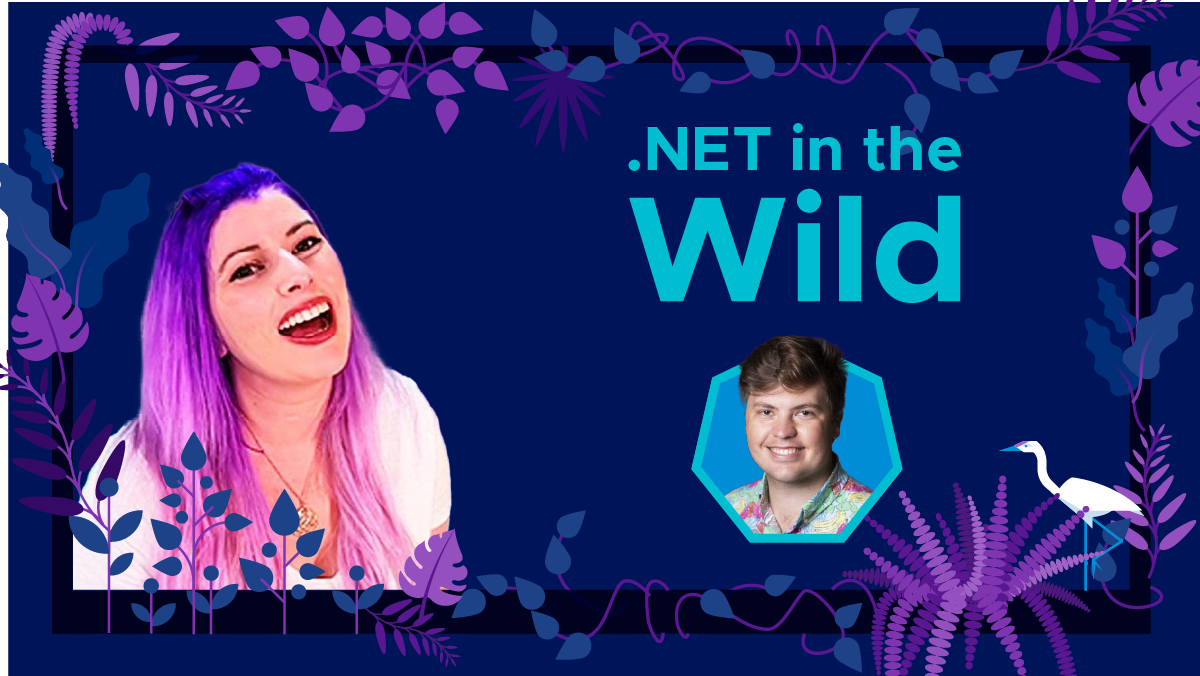
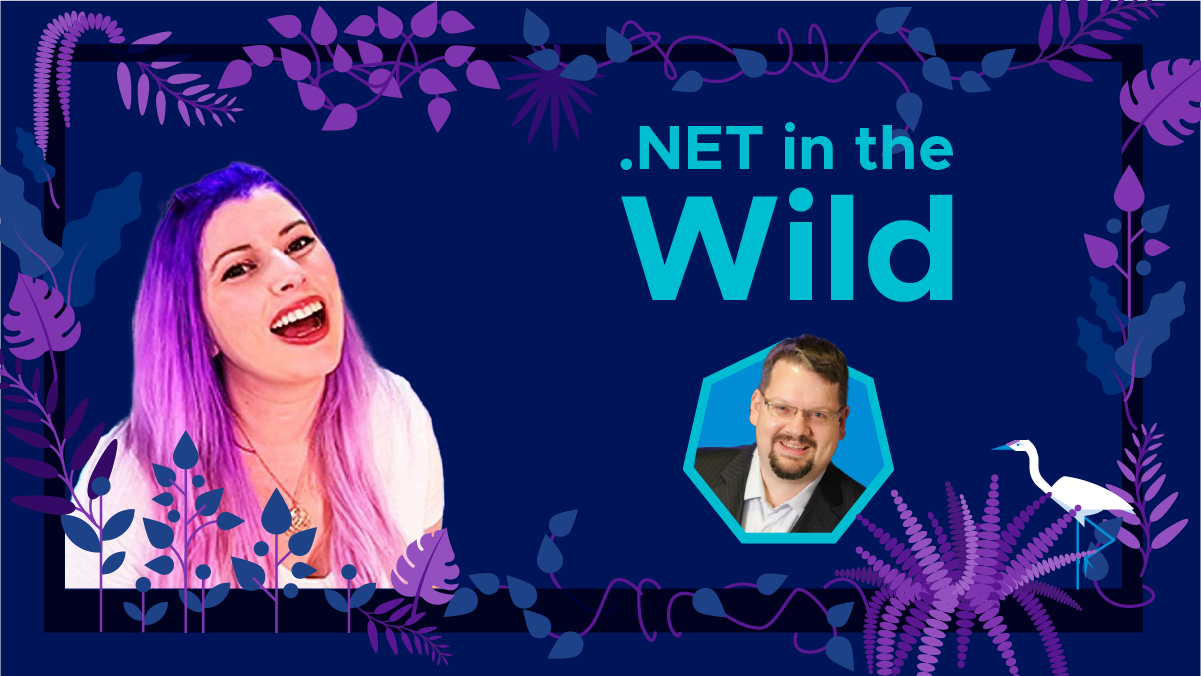
New .NET in the wild shows (#1730)
* converting links to hyperlinks for .net beyond

* fixed typo

* updating and adding .net in the wild guests

* added in Elahn's YT link

* spell check!

Changed region(s): [[0.0, 0.0, 1.0, 1.0], [0.4933, 0.2796, 0.8017, 0.466]]

diff --git a/content/tv/dotnet-wild/0011/index.md b/content/tv/dotnet-wild/0011/index.md
@@ -1,25 +1,23 @@
 ---
-Date: '2022-05-17T17:30:00-00:00'
-Description: .NET in the Wild with Alex Dunn
-PublishDate: '2022-03-07T00:00:00-00:00'
+Date: '2022-04-12T17:30:00-00:00'
+Description: .NET in the Wild with Richard Campbell
+PublishDate: '2022-03-24T00:00:00-00:00'
 aliases:
 - /tv/dotnet-wild/11
 author: laylap
-date: '2022-05-17'
+date: '2022-04-12'
 episode: '11'
 explicit: 'yes'
 hosts:
 - Layla Porter
-lastmod: '2022-03-21'
-title: Alex Dunn and Layla talk about .NET, and playing video games with your voice!
+lastmod: '2022-03-24'
+title: Richard Campbell and Layla talk about .NET and the universe!
 truncate: ''
 twitch: vmwaretanzu
 type: tv-episode
-youtube: 'FPcDKfL6-qs'
+youtube: 'NUHt5wGwqOU'
 ---
 
-Alex Dunn leads the product team at Voicify and is the founder of Enabled Play. He's also a Microsoft MVP, PubConf Champion, Bixby Premier Developer, and AWS Alexa SME. His background in accessibility, application development, and conversational AI has leaned into enabling applications to do more for businesses and consumers using scalable architectures and design, distributed services, cloud infrastructure, and innovative edge technologies. Alex does his best to remain platform agnostic in his practices and development with specialties in C#, Kotlin, and TypeScript while building for cross-platform compatibility. You might find him co-organizing the Boston Mobile C# Meetup with Microsoft, speaking at all sorts of conferences and events around the world, streaming on Twitch, and on Pluralsight. You can read his regular tips and thoughts in the development community at https://alexdunn.org/ or watch him live at https://twitch.tv/suave_pirate
+Richard Campbell wrote his first line of code in 1977. His career has spanned the computing industry both on the hardware and software sides, development and operations. He was a co-founder of Strangeloop Networks, acquired by Radware in 2013 and was on the board of directors of Telerik that was acquired by Progress Software in 2014. Today he is a consultant and advisor to several successful technology firms and is the founder and chairman of Humanitarian Toolbox (www.htbox.org), a public charity that builds open-source software for disaster relief. Richard is also the host of two podcasts: [.NET Rocks!](https://www.dotnetrocks.com) the Internet Audio Talkshow for .NET developers and [RunAs Radio](https://www.runasradio.com), a weekly show for IT Professionals. He also produces the [DevIntersection](https://www.devintersection.com) series of conferences.
 
-Outside technology, you can find him playing guitar, working with animal rescue, or exploring the great outdoors.
-
-- [Twitter](https://twitter.com/suave_pirate)
+- [Twitter](https://twitter.com/richcampbell)

diff --git a/content/tv/dotnet-wild/0013/index.md b/content/tv/dotnet-wild/0013/index.md
@@ -1,0 +1,25 @@
+---
+Date: '2022-05-17T17:30:00-00:00'
+Description: .NET in the Wild with Alex Dunn
+PublishDate: '2022-03-07T00:00:00-00:00'
+aliases:
+- /tv/dotnet-wild/13
+author: laylap
+date: '2022-05-17'
+episode: '13'
+explicit: 'yes'
+hosts:
+- Layla Porter
+lastmod: '2022-03-21'
+title: Alex Dunn and Layla talk about .NET, and playing video games with your voice!
+truncate: ''
+twitch: vmwaretanzu
+type: tv-episode
+youtube: 'FPcDKfL6-qs'
+---
+
+Alex Dunn leads the product team at Voicify and is the founder of Enabled Play. He's also a Microsoft MVP, PubConf Champion, Bixby Premier Developer, and AWS Alexa SME. His background in accessibility, application development, and conversational AI has leaned into enabling applications to do more for businesses and consumers using scalable architectures and design, distributed services, cloud infrastructure, and innovative edge technologies. Alex does his best to remain platform agnostic in his practices and development with specialties in C#, Kotlin, and TypeScript while building for cross-platform compatibility. You might find him co-organizing the Boston Mobile C# Meetup with Microsoft, speaking at all sorts of conferences and events around the world, streaming on Twitch, and on Pluralsight. You can read his regular tips and thoughts in the development community at https://alexdunn.org/ or watch him live at https://twitch.tv/suave_pirate
+
+Outside technology, you can find him playing guitar, working with animal rescue, or exploring the great outdoors.
+
+- [Twitter](https://twitter.com/suave_pirate)

diff --git a/content/tv/dotnet-wild/0012/index.md b/content/tv/dotnet-wild/0012/index.md
@@ -1,0 +1,25 @@
+---
+Date: '2022-04-19T17:30:00-00:00'
+Description: .NET in the Wild with Elahn Harris
+PublishDate: '2022-03-24T00:00:00-00:00'
+aliases:
+- /tv/dotnet-wild/12
+author: laylap
+date: '2022-04-19'
+episode: '12'
+explicit: 'yes'
+hosts:
+- Layla Porter
+lastmod: '2022-03-21'
+title: Elahn Harris and Layla talk about learning .NET!
+truncate: ''
+twitch: vmwaretanzu
+type: tv-episode
+youtube: 'GshqR7r6ccQ'
+---
+
+Elahn is a self-taught developer who started her journey on August 9, 2020. Since then, she’s gained an awesome community of developer friends around the globe! She’s also started a book club called .NET Book Study, as well as her own YouTube channel [Elahn Danee Codes](https://www.youtube.com/channel/UCZpg20byiIpKa1cJc1hEpTg). 
+
+
+
+- [Twitter](https://twitter.com/https://twitter.com/CodeThLightning)
